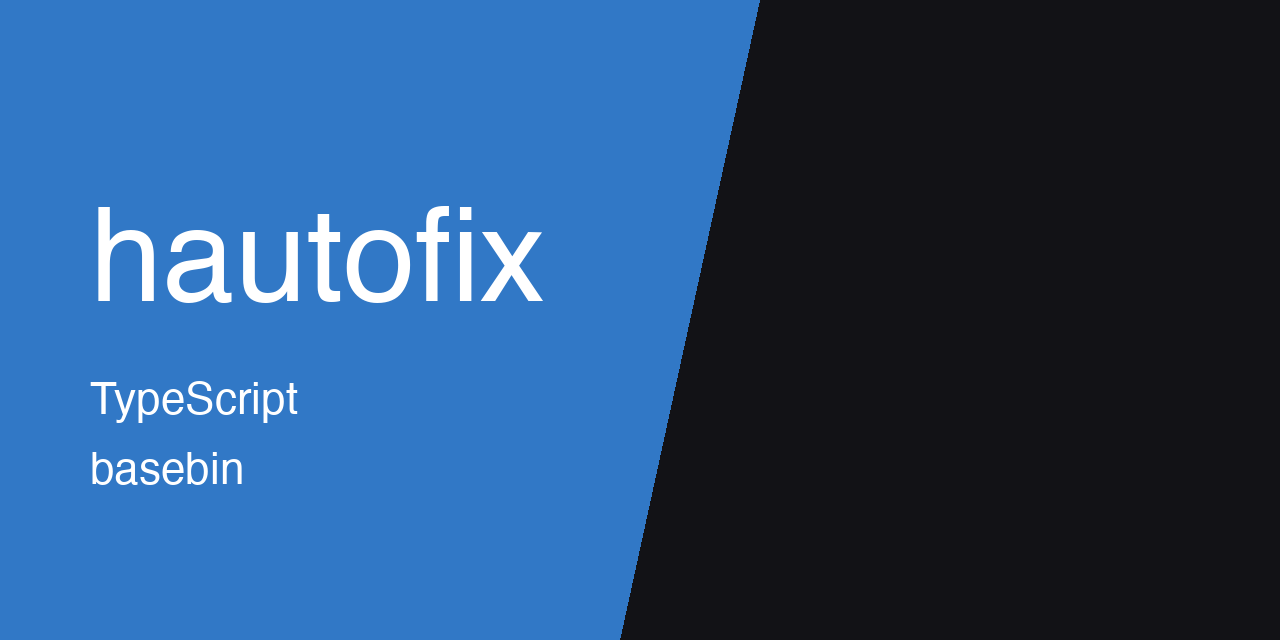
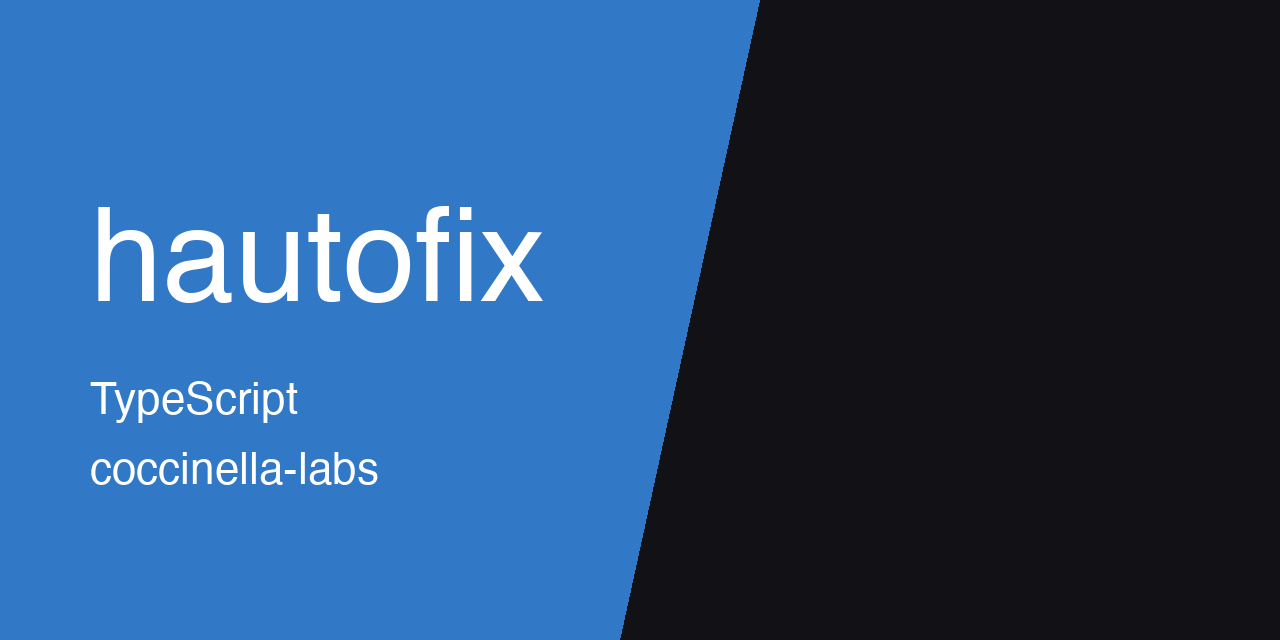
[docs] move thumbnail to coccinella-labs

Changed region(s): [[0.0625, 0.7188, 0.3125, 0.7812]]

diff --git a/README.md b/README.md
@@ -1,5 +1,5 @@
 <p align="center">
-  <img src="https://raw.githubusercontent.com/basebin/hautofix/main/.github/assets/thumbnail.png" alt="hautofix" width="100%">
+  <img src="https://raw.githubusercontent.com/Coccinella-Labs/hautofix/main/.github/assets/thumbnail.png" alt="hautofix" width="100%">
 </p>
 
 # autofix
